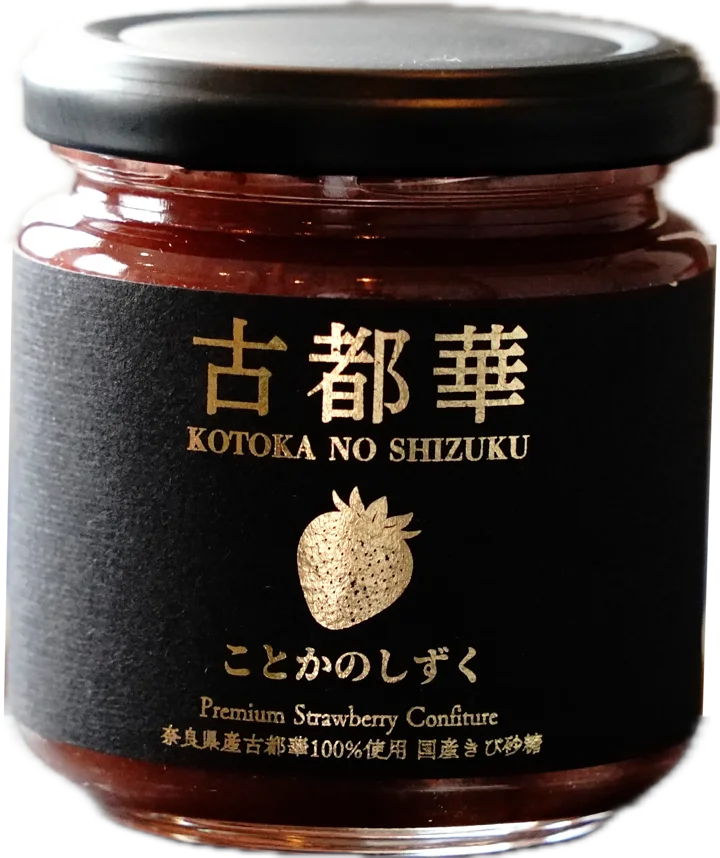
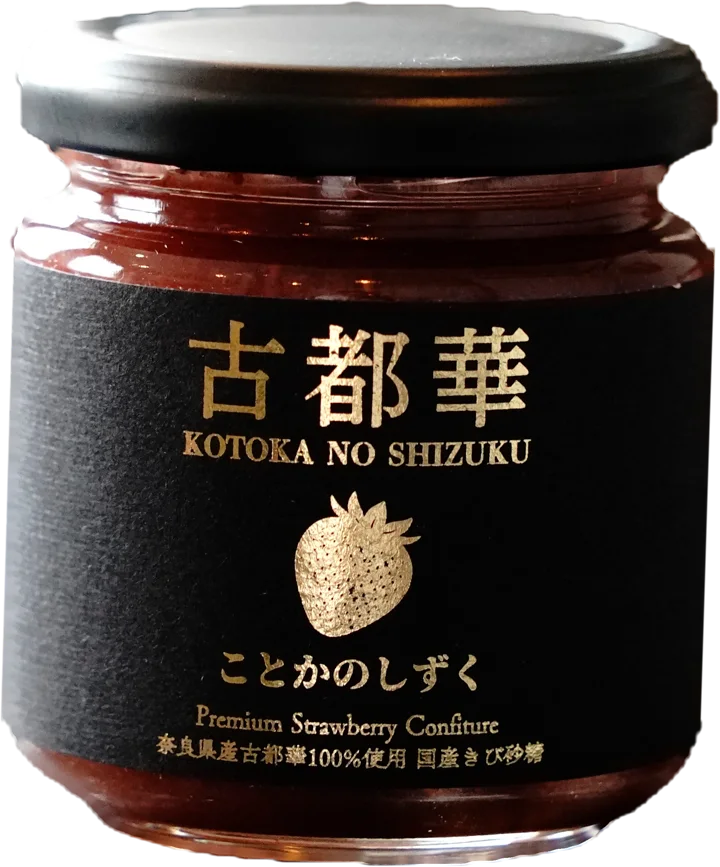
Clean the jar cutout edges and ground it; tidy photos and the purchase section
- Move the jar's edge inside the window-light band and replace edge
  colors with interior colors, removing the white halo
- Stand the hero and diagram jars on a lit floor with a contact shadow
- Replace the strawberry milk photo with the confiture's real color and
  even out the color of the four usage photos
- Enlarge the event result under the hero, keep phrases together, widen
  the furusato photo on phones, merge the duplicate photo note, and drop
  the empty store card

diff --git a/index.html b/index.html
@@ -64,7 +64,7 @@
     <div class="fv-grid">
       <div class="stage">
         <div class="jar">
-          <img src="./assets/lp2026/img/jar-900.webp" srcset="./assets/lp2026/img/jar-560.webp 560w, ./assets/lp2026/img/jar-720.webp 720w, ./assets/lp2026/img/jar-900.webp 900w" sizes="(max-width: 767px) 60vw, 23rem" alt="古都華のしずく 180g。黒いラベルに金の箔押しの瓶" width="900" height="1073" fetchpriority="high">
+          <img src="./assets/lp2026/img/jar-900.webp" srcset="./assets/lp2026/img/jar-560.webp 560w, ./assets/lp2026/img/jar-720.webp 720w, ./assets/lp2026/img/jar-900.webp 900w" sizes="(max-width: 767px) 60vw, 23rem" alt="古都華のしずく 180g。黒いラベルに金の箔押しの瓶" width="900" height="1084" fetchpriority="high">
         </div>
         <div class="surface" aria-hidden="true"></div>
       </div>
@@ -77,7 +77,7 @@
     <div class="fv-proof">
       <div class="proof-item">
         <p class="proof-key">いちごミルク<span class="num">2,000</span>杯超</p>
-        <p class="proof-text">ずっと真夜中でいいのに。特別公演祭「文禍伝雷」の2日間で販売（販売者調べ）</p>
+        <p class="proof-text">ずっと真夜中でいいのに。特別公演祭「文禍伝雷」の<span class="nw">2日間で販売（販売者調べ）</span></p>
       </div>
       <div class="proof-item">
         <p class="proof-key">奈良市<span class="nw">ふるさと納税</span>の返礼品</p>
@@ -106,7 +106,7 @@
           <li><i aria-hidden="true"></i>生の古都華　12月中旬〜5月中旬</li>
           <li><i class="gold" aria-hidden="true"></i>古都華のしずく　一年中</li>
         </ul>
-        <p class="source">収穫時期は奈良市「古都華を味わう時間」による目安です。</p>
+        <p class="source">収穫時期は奈良市「古都華を味わう時間」<span class="nw">による目安です。</span></p>
       </div>
       <div class="bridge">
         <figure class="bridge-photo">
@@ -129,7 +129,7 @@
           <li><b>いちご（古都華）</b><span>奈良県産を100%使用</span></li>
           <li><b>きび砂糖</b><span>国産</span></li>
         </ul>
-        <figure class="center-jar"><img src="./assets/lp2026/img/jar-560.webp" srcset="./assets/lp2026/img/jar-560.webp 560w, ./assets/lp2026/img/jar-720.webp 720w, ./assets/lp2026/img/jar-900.webp 900w" sizes="(max-width: 767px) 15rem, 18rem" alt="古都華のしずく 180g" width="560" height="667" loading="lazy"></figure>
+        <figure class="center-jar"><img src="./assets/lp2026/img/jar-560.webp" srcset="./assets/lp2026/img/jar-560.webp 560w, ./assets/lp2026/img/jar-720.webp 720w, ./assets/lp2026/img/jar-900.webp 900w" sizes="(max-width: 767px) 15rem, 18rem" alt="古都華のしずく 180g" width="560" height="674" loading="lazy"></figure>
         <ul class="callouts right">
           <li><b>有機レモン果汁</b><span>有機栽培のレモン</span></li>
           <li><b>香料</b><span>バニラエッセンス</span></li>
@@ -156,8 +156,7 @@
           <p class="note">色はイメージです。</p>
         </div>
         <figure class="enjoy-photo">
-          <img src="./assets/lp2026/img/milk-swirl-1000.webp" srcset="./assets/lp2026/img/milk-swirl-600.webp 600w, ./assets/lp2026/img/milk-swirl-1000.webp 1000w" sizes="(max-width: 767px) 92vw, (max-width: 1023px) 46vw, 36rem" alt="グラスの中で、いちごと牛乳が混ざり合っている" width="1000" height="1250" loading="lazy">
-          <figcaption>写真はイメージです</figcaption>
+          <img src="./assets/lp2026/img/milk-swirl-1000.webp" srcset="./assets/lp2026/img/milk-swirl-600.webp 600w, ./assets/lp2026/img/milk-swirl-1000.webp 1000w" sizes="(max-width: 767px) 92vw, (max-width: 1023px) 46vw, 36rem" alt="青みがかった灰色の布の上の、牛乳を入れたグラス。濃い赤のコンフィチュールが渦を巻いて混ざっていく" width="1000" height="1250" loading="lazy">
         </figure>
       </div>
       <ul class="uses">
@@ -197,7 +196,7 @@
       <figure class="furusato-photo"><img src="./assets/lp2026/img/furusato-jar-1000.webp" srcset="./assets/lp2026/img/furusato-jar-600.webp 600w, ./assets/lp2026/img/furusato-jar-1000.webp 1000w" sizes="(max-width: 767px) 72vw, 22rem" alt="窓辺の光の中、黒い箱の上に置いた古都華のしずくの瓶" width="1000" height="1250" loading="lazy"></figure>
       <div>
         <h2 class="h2" id="furusato-title">奈良市<span class="nw">ふるさと納税</span>の返礼品</h2>
-        <p>古都華のしずくは、奈良市のふるさと納税の返礼品です。</p>
+        <p>古都華のしずくは、奈良市の<span class="nw">ふるさと納税</span>の返礼品です。</p>
         <dl class="facts">
           <div><dt>寄附金額</dt><dd>10,000円</dd></div>
           <div><dt>内容</dt><dd>180g×1個（簡易包装、レシピカード付き）</dd></div>
@@ -252,7 +251,7 @@
           <details><summary>保存方法を教えてください。</summary><p>開封前は、直射日光・高温多湿を避けて常温で保存してください。開封後は冷蔵庫で保存してください。</p></details>
           <details><summary>「清涼飲料水」と書かれているのはなぜですか？</summary><p>牛乳や豆乳、炭酸水、お酒などと混ぜて楽しめるよう、清涼飲料水の規格で製造しています。</p></details>
           <details><summary>賞味期限はどこで確認できますか？</summary><p>瓶の下部に記載しています。開封前の期限です。</p></details>
-          <details><summary>ふるさと納税で申し込めますか？</summary><p>はい。奈良市のふるさと納税の返礼品として、au PAY ふるさと納税に掲載されています。</p></details>
+          <details><summary>ふるさと納税で申し込めますか？</summary><p>はい。奈良市の<span class="nw">ふるさと納税</span>の返礼品として、<span class="nw">au PAY ふるさと納税</span>に掲載されています。</p></details>
         </div>
       </div>
     </div>
@@ -268,10 +267,7 @@
           <p>奈良市の返礼品として申し込めます。</p>
           <a class="btn btn-berry" href="https://furusato.wowma.jp/products/detail.php?product_id=2854338" target="_blank" rel="noopener">au PAY ふるさと納税で見る</a>
         </div>
-        <div class="buy-item">
-          <h3>店頭・オンラインストア</h3>
-          <p>取扱店とオンラインストアの情報は準備中です。</p>
-        </div>
+        <p class="note">取扱店とオンラインストアの情報は準備中です。</p>
       </div>
     </div>
   </section>

diff --git a/assets/lp2026/css/style.css b/assets/lp2026/css/style.css
@@ -95,8 +95,10 @@ figcaption { margin-top: 0.5rem; opacity: 0.78; }
 .stage::before { content: ""; position: absolute; left: -20%; right: -20%; bottom: 3.75rem; height: 45%; background: radial-gradient(50% 60% at 50% 100%, rgba(214, 170, 96, 0.16), transparent 70%); pointer-events: none; }
 .jar { position: relative; width: min(100%, 23rem); }
 .jar img { position: relative; z-index: 1; width: 100%; }
-.jar::after { content: ""; position: absolute; z-index: 0; left: 8%; right: 8%; bottom: -0.625rem; height: 1.5rem; border-radius: 50%; background: radial-gradient(closest-side, rgba(0, 0, 0, 0.85), transparent); }
-.surface { position: relative; width: 140%; height: 4rem; margin-top: -0.25rem; background: radial-gradient(50% 100% at 50% 0%, rgba(255, 236, 205, 0.07), transparent 75%); }
+/* 床：瓶の足もとに光だまりを置き、その上に接地影を落とす（暗い地に黒い影だけでは見えない） */
+.jar::after { content: ""; position: absolute; z-index: 0; left: 12%; right: 12%; bottom: -0.45rem; height: 1.1rem; border-radius: 50%; background: radial-gradient(closest-side, rgba(0, 0, 0, 0.92), rgba(0, 0, 0, 0.55) 55%, transparent); }
+.surface { position: relative; z-index: 0; width: 150%; height: 5.5rem; margin-top: -2.75rem; background: radial-gradient(48% 46% at 50% 50%, rgba(214, 170, 96, 0.2), rgba(214, 170, 96, 0.06) 55%, transparent 72%); pointer-events: none; }
+.jar { z-index: 1; }
 .fv-title { writing-mode: vertical-rl; align-self: center; font-family: var(--f-mincho); font-weight: 400; font-size: clamp(2.5rem, 1.3rem + 3.6cqi, 4.75rem); line-height: 1.5; letter-spacing: 0.2em; }
 .fv-title .gold { color: var(--gold); }
 .fv-body { display: grid; gap: 1.75rem; align-self: end; padding-bottom: 5rem; }
@@ -106,9 +108,9 @@ figcaption { margin-top: 0.5rem; opacity: 0.78; }
 /* 実績の帯：本文と同じ幅にそろえ、数字は文中に置く（大きな数字は文禍伝雷の節だけ） */
 .fv-proof { display: grid; grid-template-columns: repeat(2, minmax(0, 1fr)); gap: 1rem clamp(2rem, 1rem + 3cqi, 4rem); max-width: calc(var(--wrap) + 2 * var(--gutter)); margin: 0 auto; padding: 1.25rem var(--gutter) 2.25rem; }
 .fv-proof::before { content: ""; grid-column: 1 / -1; height: 1px; background: var(--gold-line); margin-bottom: 0.25rem; }
-.proof-item { display: grid; gap: 0.375rem; align-content: start; }
-.proof-key { font-family: var(--f-mincho); font-size: clamp(1.125rem, 1rem + 0.5cqi, 1.375rem); letter-spacing: 0.1em; line-height: 1.5; }
-.proof-key .num { margin: 0 0.12em; color: var(--gold); font-size: 1.2em; }
+.proof-item { display: grid; gap: 0.5rem; align-content: start; }
+.proof-key { font-family: var(--f-mincho); font-size: clamp(1.375rem, 1.05rem + 1.2cqi, 2rem); letter-spacing: 0.1em; line-height: 1.45; }
+.proof-key .num { margin: 0 0.1em; color: var(--gold); font-size: 1.25em; }
 .proof-text { color: var(--cream-soft); line-height: 1.7; }
 
 /* season */
@@ -145,7 +147,8 @@ figcaption { margin-top: 0.5rem; opacity: 0.78; }
 .diagram { display: grid; grid-template-columns: minmax(0, 1fr) minmax(12rem, 18rem) minmax(0, 1fr); column-gap: 2.5rem; align-items: center; max-width: 66rem; margin: 0 auto; }
 .center-jar { position: relative; }
 .center-jar img { position: relative; z-index: 1; }
-.center-jar::after { content: ""; position: absolute; left: 10%; right: 10%; bottom: -0.5rem; height: 1.25rem; border-radius: 50%; background: radial-gradient(closest-side, rgba(0, 0, 0, 0.8), transparent); }
+.center-jar::before { content: ""; position: absolute; left: -18%; right: -18%; bottom: -2rem; height: 4rem; background: radial-gradient(48% 46% at 50% 50%, rgba(214, 170, 96, 0.18), rgba(214, 170, 96, 0.05) 55%, transparent 72%); }
+.center-jar::after { content: ""; position: absolute; left: 12%; right: 12%; bottom: -0.4rem; height: 1rem; border-radius: 50%; background: radial-gradient(closest-side, rgba(0, 0, 0, 0.92), rgba(0, 0, 0, 0.55) 55%, transparent); }
 .callouts { display: grid; gap: clamp(2rem, 1.5rem + 2cqi, 3.5rem); }
 .callouts li { display: grid; gap: 0.25rem; padding-bottom: 0.875rem; border-bottom: 1px solid var(--gold-line); }
 .callouts.left li { text-align: right; }
@@ -224,7 +227,8 @@ figcaption { margin-top: 0.5rem; opacity: 0.78; }
 /* buy */
 .buy { padding: var(--section-y) var(--gutter); }
 .buy .h2 { margin-bottom: clamp(2.5rem, 1.5rem + 3cqi, 4rem); }
-.buy-grid { display: grid; grid-template-columns: repeat(2, minmax(0, 1fr)); gap: clamp(1.5rem, 1rem + 2cqi, 3rem); max-width: 60rem; margin: 0 auto; }
+.buy-grid { display: grid; gap: 1.25rem; max-width: 36rem; margin: 0 auto; }
+.buy-grid > .note { text-align: center; color: var(--cream-soft); }
 .buy-item { display: grid; align-content: start; gap: 1rem; padding: clamp(1.75rem, 1.25rem + 1.5cqi, 2.5rem); border: 1px solid var(--gold-line); }
 .buy-item h3 { font-family: var(--f-mincho); font-weight: 400; font-size: clamp(1.25rem, 1.1rem + 0.6cqi, 1.5rem); letter-spacing: 0.12em; }
 .buy-item p { color: var(--cream-soft); }
@@ -269,7 +273,7 @@ figcaption { margin-top: 0.5rem; opacity: 0.78; }
   .center-jar { order: -1; width: min(70%, 15rem); margin: 0 auto; }
   .callouts.left li { text-align: left; }
   .enjoy-photo { order: -1; }
-  .furusato-photo { max-width: 18rem; }
+  .furusato-photo { max-width: none; }
   .spec-table div { grid-template-columns: 1fr; gap: 0.25rem; }
   .facts div { grid-template-columns: 5.5em minmax(0, 1fr); }
   .footer-grid { grid-template-columns: 1fr; }
